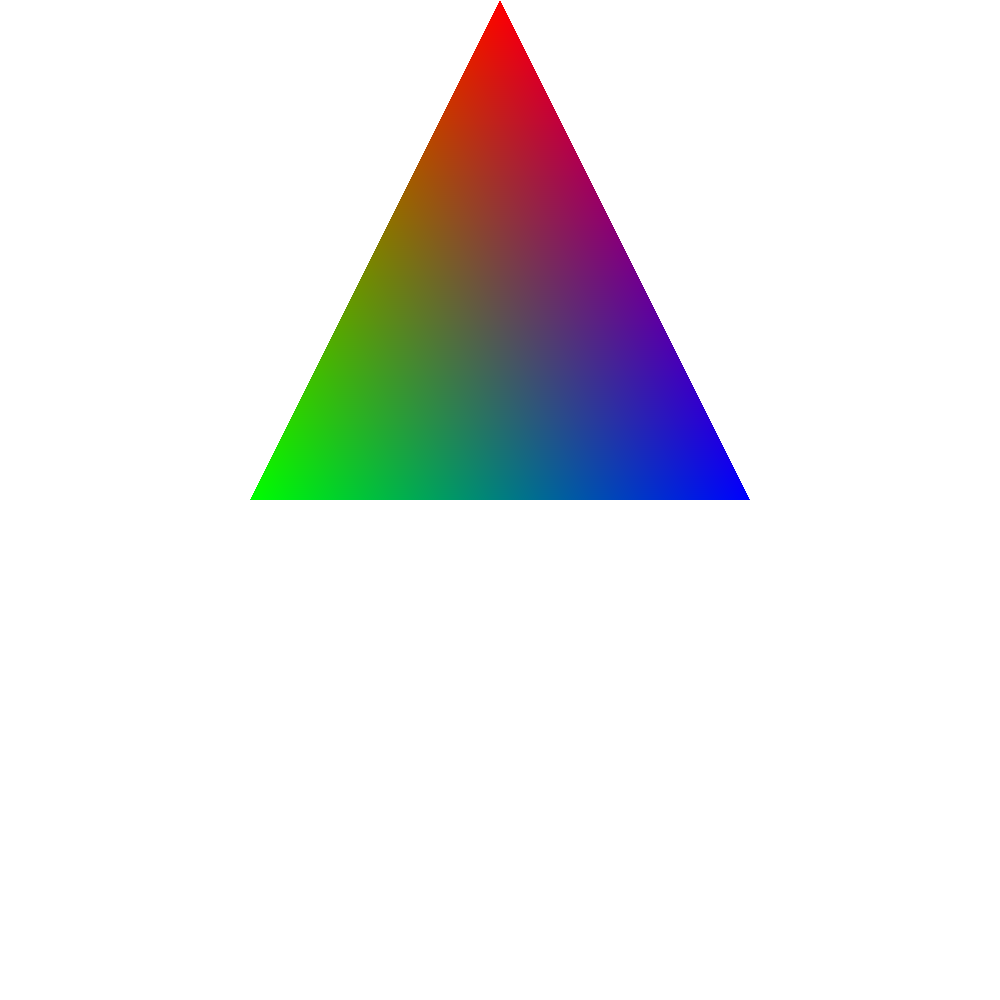
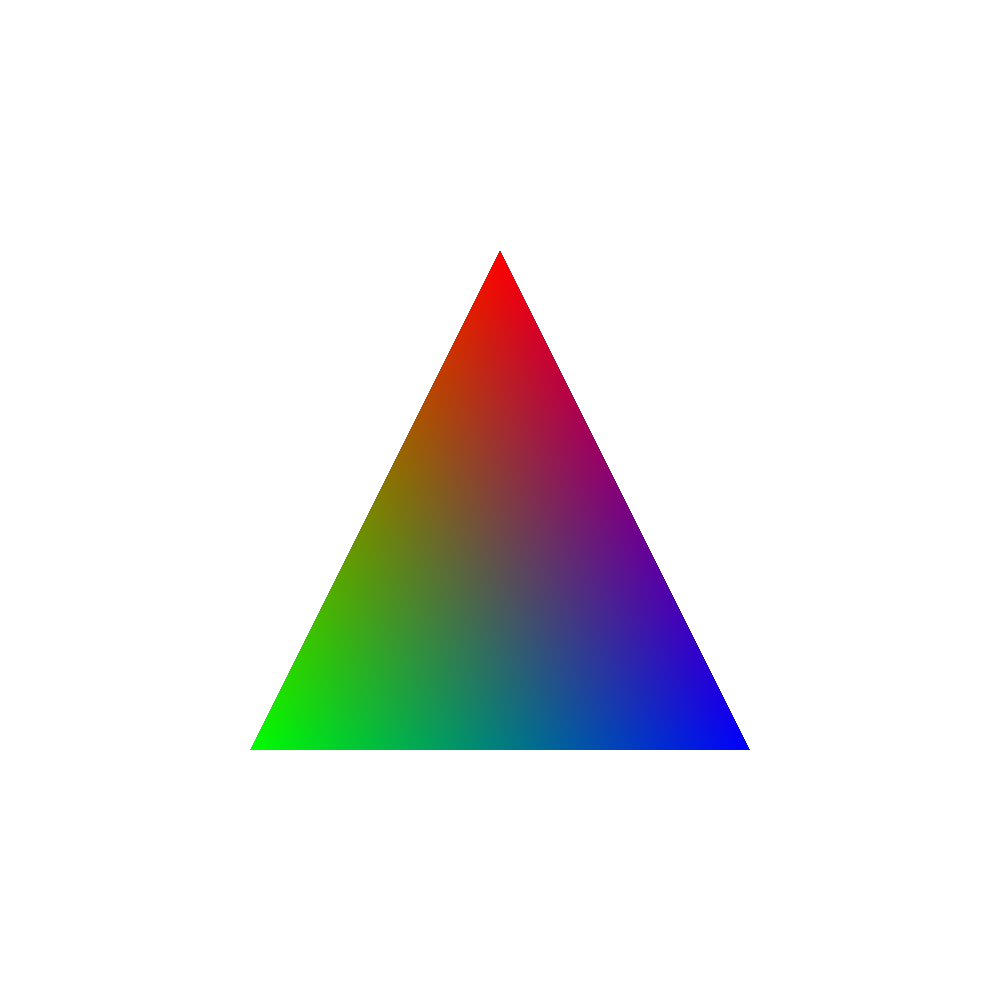
update readme

Changed region(s): [[0.248, 0.0, 0.744, 0.775]]

diff --git a/example/triangle.rs b/example/triangle.rs
@@ -30,9 +30,9 @@ fn fragment_main(input: FragmentInput, bind_groups: &mut Vec<BindGroup>) -> Frag
 fn main() {
     // 数组长度0..3是坐标，3..7是顶点颜色
     let vertex_buffer: Vec<[f32; 7]> = vec![
-        [0., -1., 1., 1., 0., 0., 1.],
-        [-0.5, 0., 1., 0., 1., 0., 1.],
-        [0.5, 0., 1., 0., 0., 1., 1.],
+        [0., -0.5, 1., 1., 0., 0., 1.],
+        [-0.5, 0.5, 1., 0., 1., 0., 1.],
+        [0.5, 0.5, 1., 0., 0., 1., 1.],
     ];
     let desc = RendererDescriptor {
         surface: RenderSurface {

diff --git a/README.md b/README.md
@@ -9,16 +9,16 @@
 
 - [x] webgpu渲染管线标准实现
 
-     - [X]顶点解析
-     - [X]顶点着色器
-     - [X]图元组装
-     - [X]图元裁剪（简单齐次裁剪）
-     - [X]图元组装（triangle-list）
-     - [X]光栅化
-     - [X]片元着色器
-     - [X]纹理支持
-     - [X]法线贴图
-     - [ ]多重采样
+     - [X] 顶点解析
+     - [X] 顶点着色器
+     - [X] 图元组装
+     - [X] 图元裁剪（简单齐次裁剪）
+     - [X] 图元组装（triangle-list）
+     - [X] 光栅化
+     - [X] 片元着色器
+     - [X] 纹理支持
+     - [X] 法线贴图
+     - [ ] 多重采样
 
 
 - [ ] Pbr
